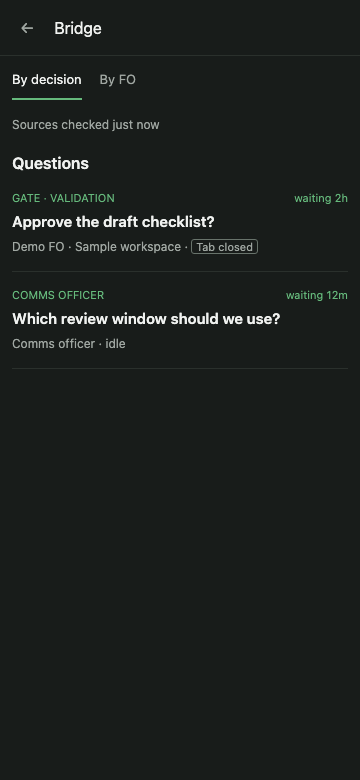
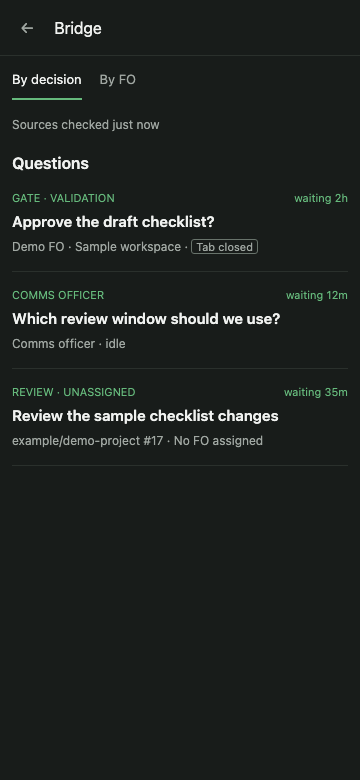
state: update r8-mockups-one-item-whole-area

Changed region(s): [[0.0306, 0.4923, 0.7639, 0.5846], [0.7944, 0.4923, 0.9472, 0.5231]]

diff --git a/r8-mockups-one-item-whole-area/mockups/index.html b/r8-mockups-one-item-whole-area/mockups/index.html
@@ -6,32 +6,33 @@
 <title>Bridge · One item uses the whole area</title>
 <style>
 :root{color-scheme:dark;--bg:#181c1a;--side:#131715;--box:#1e2320;--border:#2a302c;--text:#f0f2f0;--muted:#a0a7a2;--green:#66b97c;--amber:#d1a454}
-*{box-sizing:border-box}body{margin:0;background:var(--bg);color:var(--text);font:14px/1.5 -apple-system,BlinkMacSystemFont,"Segoe UI",sans-serif}button,a,textarea{font:inherit}button,a{touch-action:manipulation}a{color:var(--green);text-decoration:none}button{color:inherit;cursor:pointer;background:none;border:0}button:disabled{cursor:default;opacity:.4}a:focus-visible,button:focus-visible{outline:2px solid var(--green);outline-offset:3px}textarea:focus{outline:2px solid var(--green);outline-offset:1px}textarea{resize:none;color:var(--text);background:none;border:0;width:100%;line-height:1.4}textarea::placeholder{color:var(--muted);opacity:1}h1,h2,p{margin:0}h1{font-size:16px;font-weight:600;line-height:1.45}h2{font-size:14px;font-weight:600}.muted,.small{color:var(--muted);font-size:12px}.eyebrow{color:var(--green);font-size:11px;font-weight:600;letter-spacing:1px}.host{position:fixed;inset:0 auto 0 0;width:320px;background:var(--side);border-right:1px solid var(--border);padding:10px 8px;color:var(--muted)}.navrow{padding:6px 10px}.navrow.active{background:var(--box);border-radius:9px;color:var(--text)}.workspaces{border-top:1px solid var(--border);margin-top:8px;padding:12px 8px}.workspace{margin-top:20px}.hostfoot{position:absolute;bottom:12px;left:16px;right:16px;font-size:12px}.shell{margin-left:320px;height:100dvh;display:flex;flex-direction:column}.hostbar{height:36px;min-height:36px;border-bottom:1px solid var(--border);padding:6px 12px;display:flex;align-items:center;justify-content:space-between}.phone-back{display:none}.bridge{flex:1;min-height:0;display:flex;flex-direction:column}.toolbar{display:flex;align-items:center;justify-content:space-between;min-height:44px;padding:0 20px;border-bottom:1px solid var(--border)}.back{display:flex;align-items:center;min-height:44px;color:var(--muted);font-size:12px;min-width:70px}.briefing{padding:16px 20px 14px;border-bottom:1px solid var(--border)}.briefing h1{margin:5px 0}.meta{color:var(--muted);font-size:12px;margin-bottom:8px}.tag{border:1px solid #68736b;padding:0 4px;border-radius:3px;font-size:11px}.summary{max-width:900px}.briefing details{margin-top:8px;font-size:12px}.briefing summary{cursor:pointer;color:var(--green);list-style:none;min-height:24px}.full{padding-top:10px;color:var(--text);font-size:14px}.full p+p{margin-top:8px}.conversation{flex:1;min-height:100px;overflow:auto;display:flex;flex-direction:column}.scope{padding:13px 20px;display:flex;gap:16px;justify-content:space-between;color:var(--muted);font-size:12px}.scope span{flex:1}.transcript{padding:14px 20px;max-width:950px}.transcript p+p{margin-top:12px}.bubble{margin:12px 0 0 auto;padding:8px 12px;background:var(--box);border-radius:12px;max-width:80%;white-space:pre-wrap}.composer{padding:8px 20px 20px}.messagebox{border:1px solid var(--border);background:var(--box);border-radius:14px;overflow:hidden}.hint{padding:7px 14px 0;color:var(--muted);font-size:12px}.messagebox textarea{display:block;padding:10px 14px 4px;min-height:52px;height:52px}.actions{display:flex;align-items:flex-end;gap:10px;padding:0 8px 8px 12px}.decision-group{display:flex;align-items:center;flex-wrap:wrap;gap:8px;flex:1}.decision-label{font-size:12px;color:var(--muted)}.choices{display:flex;gap:8px}.control{min-height:32px;min-width:32px;border:1px solid var(--border);border-radius:11px;padding:4px 12px;font-size:13px;display:inline-flex;align-items:center;justify-content:center}.control.success{color:var(--green);border-color:var(--green)}.control.warning{color:var(--amber);border-color:var(--amber)}.control.hold{color:var(--muted);border-color:#829086}.control[aria-pressed=true]{background:#363a2e;box-shadow:inset 0 0 0 1px currentColor}.send{width:32px;height:32px;min-width:32px;padding:0;border-radius:50%;border:0;background:#2a312c;font-size:21px;color:var(--muted)}.send.ready{background:var(--green);color:#102417}.divider{height:18px;width:1px;background:var(--border);margin-bottom:7px}.reasonbox{padding:12px;margin-top:8px;border:1px solid var(--border);border-radius:14px}.reasonbox label{font-size:12px;color:var(--muted);display:block;margin-bottom:6px}.reasonbox textarea{background:var(--box);border:1px solid var(--border);border-radius:8px;padding:10px;height:58px;display:block;margin-bottom:8px}.reason-actions{display:flex;gap:8px}.reason-actions .confirm:not(:disabled){border-color:var(--green)}.result{padding:16px 20px;border-bottom:1px solid var(--border)}.result h1{margin:4px 0 6px}.result p{margin-top:8px}.result-status{font-weight:600;color:var(--green)}.queue{padding:18px 20px;overflow:auto;flex:1}.queue-tabs{display:flex;gap:18px;margin:0 0 20px;color:var(--muted);font-size:13px}.queue-tabs span:first-child{color:var(--text);border-bottom:2px solid var(--green);padding-bottom:8px}.sectionlabel{color:var(--muted);font-size:12px;margin:18px 0 6px}.queue-row{display:block;color:var(--text);padding:16px 0;border-bottom:1px solid var(--border)}.queue-row h2{font-size:15px}.rowdetail{margin-top:5px;color:var(--muted);font-size:12px}.rowtop{display:flex;justify-content:space-between;gap:8px;font-size:11px;color:var(--green);margin-bottom:4px}.queue-note{margin-bottom:18px}.landing{max-width:1000px;margin:0 auto;padding:40px 24px}.landing h1{font-size:24px;margin-bottom:8px}.landing p{color:var(--muted);margin-bottom:24px}.cards{display:grid;grid-template-columns:repeat(2,minmax(0,1fr));gap:12px}.card{border:1px solid var(--border);border-radius:12px;padding:18px;color:var(--text);background:var(--box)}.card small{display:block;color:var(--muted);margin-top:6px}.reviewnote{font-size:12px;margin-top:24px;color:var(--muted)}
-@media(max-width:700px){body{font-size:14px}.host{display:none}.shell{margin-left:0}.hostbar{height:56px;min-height:56px;padding:0 20px;font-size:16px;justify-content:flex-start;gap:20px}.hostbar .close{display:none}.phone-back{display:inline;color:var(--muted)}.toolbar{padding:0 12px}.briefing{padding:10px 12px 12px}.briefing h1{font-size:15px;margin:5px 0}.briefing .meta{margin-bottom:6px}.briefing summary{min-height:28px;padding-top:5px}.scope{padding:12px;font-size:11px;gap:8px}.transcript{padding:8px 12px}.conversation{min-height:90px}.composer{padding:8px 12px 12px}.messagebox textarea{height:52px;min-height:52px}.actions{gap:8px;padding:0 8px 8px 12px}.decision-group{display:block}.decision-label{display:block;font-size:12px;margin-bottom:4px}.choices{gap:8px}.control{min-height:44px;min-width:44px;padding:6px 12px;border-radius:14px}.send{width:44px;height:44px;min-width:44px;border-radius:50%}.divider{margin-bottom:13px}.reasonbox{padding:10px 12px}.reasonbox textarea{height:60px;padding:9px}.reasonbox label{font-size:11px}.reason-actions{gap:8px}.result{padding:12px}.queue{padding:14px 12px}.queue-row{padding:15px 0}.queue-tabs{margin-bottom:16px}.landing{padding:24px 16px}.landing h1{font-size:21px}.cards{grid-template-columns:1fr}.scope .full-view{display:none}}
+*{box-sizing:border-box}body{margin:0;background:var(--bg);color:var(--text);font:14px/1.5 -apple-system,BlinkMacSystemFont,"Segoe UI",sans-serif}button,a,textarea{font:inherit}button,a{touch-action:manipulation}a{color:var(--green);text-decoration:none}button{color:inherit;cursor:pointer;background:none;border:0}button:disabled{cursor:default;opacity:.4}a:focus-visible,button:focus-visible{outline:2px solid var(--green);outline-offset:3px}textarea:focus{outline:2px solid var(--green);outline-offset:1px}textarea{resize:none;color:var(--text);background:none;border:0;width:100%;line-height:1.4}textarea::placeholder{color:var(--muted);opacity:1}h1,h2,p{margin:0}h1{font-size:16px;font-weight:600;line-height:1.45}h2{font-size:14px;font-weight:600}.muted,.small{color:var(--muted);font-size:12px}.eyebrow{color:var(--green);font-size:11px;font-weight:600;letter-spacing:1px}.host{position:fixed;inset:0 auto 0 0;width:320px;background:var(--side);border-right:1px solid var(--border);padding:10px 8px;color:var(--muted)}.navrow{padding:6px 10px}.navrow.active{background:var(--box);border-radius:9px;color:var(--text)}.workspaces{border-top:1px solid var(--border);margin-top:8px;padding:12px 8px}.workspace{margin-top:20px}.hostfoot{position:absolute;bottom:12px;left:16px;right:16px;font-size:12px}.shell{margin-left:320px;height:100dvh;display:flex;flex-direction:column}.hostbar{height:36px;min-height:36px;border-bottom:1px solid var(--border);padding:6px 12px;display:flex;align-items:center;justify-content:space-between}.phone-back{display:none}.bridge{flex:1;min-height:0;display:flex;flex-direction:column}.toolbar{display:flex;align-items:center;justify-content:space-between;min-height:44px;padding:0 20px;border-bottom:1px solid var(--border)}.back{display:flex;align-items:center;min-height:44px;color:var(--muted);font-size:12px;min-width:70px}.briefing{padding:16px 20px 14px;border-bottom:1px solid var(--border)}.briefing h1{margin:5px 0}.meta{color:var(--muted);font-size:12px;margin-bottom:8px}.tag{border:1px solid #68736b;padding:0 4px;border-radius:3px;font-size:11px}.summary{max-width:900px}.briefing details{margin-top:8px;font-size:12px}.briefing summary{cursor:pointer;color:var(--green);list-style:none;min-height:24px}.full{padding-top:10px;color:var(--text);font-size:14px}.full p+p{margin-top:8px}.conversation{flex:1;min-height:100px;overflow:auto;display:flex;flex-direction:column}.scope{padding:13px 20px;display:flex;gap:16px;justify-content:space-between;color:var(--muted);font-size:12px}.scope span{flex:1}.transcript{padding:14px 20px;max-width:950px}.transcript p+p{margin-top:12px}.bubble{margin:12px 0 0 auto;padding:8px 12px;background:var(--box);border-radius:12px;max-width:80%;white-space:pre-wrap;overflow-wrap:anywhere}.composer{padding:8px 20px 20px}.messagebox{border:1px solid var(--border);background:var(--box);border-radius:14px;overflow:hidden}.hint{padding:7px 14px 0;color:var(--muted);font-size:12px}.messagebox textarea{display:block;padding:10px 14px 4px;min-height:52px;height:52px}.actions{display:flex;align-items:flex-end;gap:10px;padding:0 8px 8px 12px}.decision-group{display:flex;align-items:center;flex-wrap:wrap;gap:8px;flex:1}.decision-label{font-size:12px;color:var(--muted)}.choices{display:flex;gap:8px}.control{min-height:32px;min-width:32px;border:1px solid var(--border);border-radius:11px;padding:4px 12px;font-size:13px;display:inline-flex;align-items:center;justify-content:center}.control.success{color:var(--green);border-color:var(--green)}.control.warning{color:var(--amber);border-color:var(--amber)}.control.hold{color:var(--muted);border-color:#829086}.control[aria-pressed=true]{background:#363a2e;box-shadow:inset 0 0 0 1px currentColor}.send{width:32px;height:32px;min-width:32px;padding:0;border-radius:50%;border:0;background:#2a312c;font-size:21px;color:var(--muted)}.send.ready{background:var(--green);color:#102417}.divider{height:18px;width:1px;background:var(--border);margin-bottom:7px}.reasonbox{padding:12px;margin-top:8px;border:1px solid var(--border);border-radius:14px}.reasonbox label{font-size:12px;color:var(--muted);display:block;margin-bottom:6px}.reasonbox textarea{background:var(--box);border:1px solid var(--border);border-radius:8px;padding:10px;height:58px;display:block;margin-bottom:8px}.reason-actions{display:flex;gap:8px}.reason-actions .confirm:not(:disabled){border-color:var(--green)}.result{padding:16px 20px;border-bottom:1px solid var(--border)}.result h1{margin:4px 0 6px}.result p{margin-top:8px}.result-status{font-weight:600;color:var(--green)}.queue{padding:18px 20px;overflow:auto;flex:1}.queue-tabs{display:flex;gap:18px;margin:0 0 20px;color:var(--muted);font-size:13px}.queue-tabs span:first-child{color:var(--text);border-bottom:2px solid var(--green);padding-bottom:8px}.sectionlabel{color:var(--muted);font-size:12px;margin:18px 0 6px}.queue-row{display:block;color:var(--text);padding:16px 0;border-bottom:1px solid var(--border)}.queue-row h2{font-size:15px}.rowdetail{margin-top:5px;color:var(--muted);font-size:12px}.rowtop{display:flex;justify-content:space-between;gap:8px;font-size:11px;color:var(--green);margin-bottom:4px}.queue-note{margin-bottom:18px}.landing{max-width:1000px;margin:0 auto;padding:40px 24px}.landing h1{font-size:24px;margin-bottom:8px}.landing p{color:var(--muted);margin-bottom:24px}.cards{display:grid;grid-template-columns:repeat(2,minmax(0,1fr));gap:12px}.card{border:1px solid var(--border);border-radius:12px;padding:18px;color:var(--text);background:var(--box)}.card small{display:block;color:var(--muted);margin-top:6px}.reviewnote{font-size:12px;margin-top:24px;color:var(--muted)}
+@media(max-width:700px){body{font-size:14px}.host{display:none}.shell{margin-left:0}.hostbar{height:56px;min-height:56px;padding:0 20px;font-size:16px;justify-content:flex-start;gap:20px}.hostbar .close{display:none}.phone-back{display:inline;color:var(--muted)}.toolbar{padding:0 12px}.briefing{padding:10px 12px 12px}.briefing h1{font-size:15px;margin:5px 0}.briefing .meta{margin-bottom:6px}.briefing summary{min-height:28px;padding-top:5px}.scope{padding:12px;font-size:11px;gap:8px}.transcript{padding:8px 12px}.conversation{min-height:90px}.composer{padding:8px 12px 12px}.messagebox textarea{height:52px;min-height:52px}.actions{gap:8px;padding:0 8px 8px 12px}.decision-group{display:block}.decision-label{display:block;font-size:12px;margin-bottom:4px}.choices{gap:8px}.control{min-height:44px;min-width:44px;padding:6px 12px;border-radius:14px}.send{width:44px;height:44px;min-width:44px;border-radius:50%}.divider{margin-bottom:13px}.reasonbox{padding:10px 12px}.reasonbox textarea{height:60px;padding:9px}.reasonbox label{font-size:11px}.reason-actions{gap:8px}.result{padding:12px}.queue{padding:14px 12px}.queue-row{padding:15px 0}.queue-tabs{margin-bottom:16px}.landing{padding:24px 16px}.landing h1{font-size:21px}.cards{grid-template-columns:1fr}.scope .full-view{display:none}.review-prefill #message{height:110px}}
 </style>
 <div id="app"></div>
 <script>
-const states=[['list','清單'],['open','單件全區'],['reason-empty','已選要求修改・理由空白'],['reason-typed','已填理由'],['sent','已送出'],['relayed','已轉送'],['recorded','已記錄'],['back-list','回到清單'],['comms','通訊官問題']];
+const states=[['list','清單'],['open','單件全區'],['reason-empty','已選要求修改・理由空白'],['reason-typed','已填理由'],['sent','已送出'],['relayed','已轉送'],['recorded','已記錄'],['list-sent','送出後回清單'],['list-relayed','轉送後回清單'],['back-list','已記錄後回清單'],['comms','通訊官問題'],['review-ask','未分派審查・預填詢問'],['review-sent','審查詢問已送出']];
 const allowed=new Set(states.map(s=>s[0]));
 let state=new URLSearchParams(location.search).get('state')||'review';
 if(!allowed.has(state))state='review';
 let chosen=state.startsWith('reason-')?'要求修改':null;
-let messageDraft='';
+const reviewAsk='Who should review example/demo-project#17 (https://example.invalid/example/demo-project/pull/17)?';
+let messageDraft=state==='review-ask'?reviewAsk:'';
 let reasonDraft=state==='reason-typed'?'Please add the missing rollback check.':'';
 const app=document.getElementById('app');
 const esc=s=>s.replaceAll('&','&amp;').replaceAll('<','&lt;').replaceAll('>','&gt;').replaceAll('"','&quot;');
 const url=s=>'?state='+s;
 function host(content){return `<aside class="host" aria-label="Paseo navigation"><div class="navrow">＋ New workspace</div><div class="navrow">◷ History</div><div class="navrow">⌕ Search</div><div class="navrow">◷ Schedules</div><div class="navrow active">♧ Bridge</div><div class="workspaces small">Workspaces<div class="workspace">▣ &nbsp; Sample workspace</div></div><div class="hostfoot">⊞ &nbsp; ◉ &nbsp; ▤</div></aside><main class="shell"><header class="hostbar"><span class="phone-back">←</span><span>Bridge</span><span class="muted close">×</span></header><div class="bridge">${content}</div></main>`}
-function toolbar(){return `<nav class="toolbar" aria-label="Item navigation"><a class="back" href="${url(['sent','relayed','recorded'].includes(state)?'back-list':'list')}">← Queue</a></nav>`}
-function queue(){const done=state==='back-list';return `<div class="queue"><div class="queue-tabs"><span>By decision</span><span>By FO</span></div><p class="small queue-note">Sources checked just now</p><h1>Questions</h1>${done?'':`<a class="queue-row" href="${url('open')}"><div class="rowtop"><span>GATE · VALIDATION</span><span>waiting 2h</span></div><h2>Approve the draft checklist?</h2><div class="rowdetail">Demo FO · Sample workspace · <span class="tag">Tab closed</span></div></a>`}<a class="queue-row" href="${url('comms')}"><div class="rowtop"><span>COMMS OFFICER</span><span>waiting 12m</span></div><h2>Which review window should we use?</h2><div class="rowdetail">Comms officer · idle</div></a></div>`}
+function toolbar(){return `<nav class="toolbar" aria-label="Item navigation"><a class="back" href="${url(({sent:'list-sent',relayed:'list-relayed',recorded:'back-list'})[state]||'list')}">← Queue</a></nav>`}
+function queue(){const done=state==='back-list';const progress=({'list-sent':'sent','list-relayed':'relayed'})[state];return `<div class="queue"><div class="queue-tabs"><span>By decision</span><span>By FO</span></div><p class="small queue-note">Sources checked just now</p><h1>Questions</h1>${done?'':`<a class="queue-row" data-gate-row href="${url(progress||'open')}"><div class="rowtop"><span>GATE · VALIDATION</span><span>waiting 2h</span></div><h2>Approve the draft checklist?</h2><div class="rowdetail">Demo FO · Sample workspace · <span class="tag">Tab closed</span>${progress?' · '+(progress==='sent'?'Sent to comms officer':'Relayed to Demo FO'):''}</div></a>`}<a class="queue-row" href="${url('comms')}"><div class="rowtop"><span>COMMS OFFICER</span><span>waiting 12m</span></div><h2>Which review window should we use?</h2><div class="rowdetail">Comms officer · idle</div></a><a class="queue-row" href="${url('review-ask')}"><div class="rowtop"><span>REVIEW · UNASSIGNED</span><span>waiting 35m</span></div><h2>Review the sample checklist changes</h2><div class="rowdetail">example/demo-project #17 · No FO assigned</div></a></div>`}
 function briefing(){return `<section class="briefing" aria-label="Gate briefing"><div class="eyebrow">GATE · VALIDATION · SAMPLE WORKSPACE</div><h1>Approve the draft checklist?</h1><div class="meta">Demo FO · <span class="tag">Tab closed</span> &nbsp; waiting 2h</div><p class="summary">The draft checklist is ready for review. Confirm the remaining checks before proceeding.</p><details><summary>Read full briefing ›</summary><div class="full"><p>Draft checklist: verify the preview, check the sample export, and agree on the review window.</p><p>The rollback check is still missing. This gate asks whether to accept the draft or request a revision before the review.</p></div></details></section>`}
 function conversation(comms=false){return `<section class="conversation" aria-label="Conversation"><div class="scope"><span>Conversation with ${comms?'Comms officer':'Demo FO'} · includes other tasks</span><span class="full-view">Open full view</span></div><div class="transcript"><p>${comms?'Which review window should we use? (you)':'The draft is ready. Please confirm the remaining checks before the review. (you)'}</p><div id="sent-messages"></div></div></section>`}
-function composer(comms=false,terminal=false){const who=comms?'Comms officer':'Demo FO';return `<section class="composer" aria-label="Message and decision"><div class="messagebox"><div class="hint">↑ sends to ${who}</div><textarea id="message" aria-label="Message ${who}" placeholder="Message ${who}${comms?'':' directly'}">${esc(messageDraft)}</textarea><div class="actions">${comms||terminal?'<div style="flex:1"></div>':`<div class="decision-group"><span class="decision-label">Decide via comms officer</span><div class="choices">${['准','要求修改','暫緩'].map((word,i)=>`<button class="control choice ${['success','warning','hold'][i]}" data-choice="${word}" aria-pressed="${chosen===word}">${word}</button>`).join('')}</div></div><span class="divider"></span>`}<button id="send" class="control send" aria-label="Send message to ${who}" disabled>↑</button></div></div>${chosen?reasonbox():''}</section>`}
+function composer(comms=false,terminal=false){const who=comms?'Comms officer':'Demo FO';return `<section class="composer" aria-label="Message and decision"><div class="messagebox${state==='review-ask'?' review-prefill':''}"><div class="hint">↑ sends to ${who}</div><textarea id="message" aria-label="Message ${who}" placeholder="Message ${who}${comms?'':' directly'}">${esc(messageDraft)}</textarea><div class="actions">${comms||terminal?'<div style="flex:1"></div>':`<div class="decision-group"><span class="decision-label">Decide via comms officer</span><div class="choices">${['准','要求修改','暫緩'].map((word,i)=>`<button class="control choice ${['success','warning','hold'][i]}" data-choice="${word}" aria-pressed="${chosen===word}">${word}</button>`).join('')}</div></div><span class="divider"></span>`}<button id="send" class="control send" aria-label="Send message to ${who}" disabled>↑</button></div></div>${chosen?reasonbox():''}</section>`}
 function reasonbox(){const required=chosen!=='准';return `<div class="reasonbox"><label for="reason">Reason for ${chosen} (${required?'required':'optional'}) · via comms officer</label><textarea id="reason" placeholder="${required?'Add a reason for this decision':'Optional reason'}" ${required?'required':''}>${esc(reasonDraft)}</textarea><div class="reason-actions"><button id="confirm" class="control confirm" ${required&&!reasonDraft.trim()?'disabled':''}>Confirm ${chosen}</button><button id="cancel" class="control">Cancel</button></div></div>`}
-function result(){const copy={sent:['Sent to comms officer','Waiting for the comms officer to relay your decision.'],relayed:['Relayed to Demo FO','Waiting for Demo FO to check your words and the briefing, then record the decision.'],recorded:['Recorded by Demo FO','Your decision has been recorded.']}[state];return `<section class="result" aria-label="Decision result"><div class="eyebrow">GATE · VALIDATION · SAMPLE WORKSPACE</div><h1>Approve the draft checklist?</h1><div class="meta">Demo FO · <span class="tag">Tab closed</span></div><p class="result-status">${copy[0]}</p><p>要求修改 — ${esc(reasonDraft||'Please add the missing rollback check.')}</p><p class="muted">${copy[1]}</p></section>`}
-function render(){if(state==='review'){app.innerHTML=`<main class="landing"><div class="eyebrow">第 8 輪 · 靜態設計稿</div><h1>單件使用整個 Bridge 區域</h1><p>先從清單開一件；確認後留在原件看結果，再回清單。以下全部使用虛構資料。</p><div class="cards">${states.map(([s,title])=>`<a class="card" href="${url(s)}">${title}<small>開啟畫面 →</small></a>`).join('')}</div><div class="reviewnote">同一方向，桌面與手機共用版面規則。<br>這是離線示意；送出和確認只改變畫面，不會傳訊或記錄決定。<br>已送出、已轉送、已記錄是分開的固定示意頁，不會自動進度。<br><a href="REVIEW.md">逐頁審閱問題與 PNG</a> · <a href="ASSUMPTIONS.md">設計假設</a></div></main>`;return}
-let content;if(['list','back-list'].includes(state))content=queue();else if(state==='comms')content=toolbar()+`<section class="briefing"><div class="eyebrow">COMMS OFFICER · WAITING 12M</div><h1>Which review window should we use?</h1></section>`+conversation(true)+composer(true);else if(['sent','relayed','recorded'].includes(state)){chosen=null;content=toolbar()+result()+conversation()+composer(false,true)}else content=toolbar()+briefing()+conversation()+composer();app.innerHTML=host(content);bind();}
-function bind(){const message=document.getElementById('message');const send=document.getElementById('send');if(message&&send){send.disabled=!message.value.trim();send.classList.toggle('ready',!!message.value.trim())}message?.addEventListener('input',()=>{messageDraft=message.value;send.disabled=!messageDraft.trim();send.classList.toggle('ready',!!messageDraft.trim())});send?.addEventListener('click',()=>{if(!messageDraft.trim())return;const p=document.createElement('p');p.className='bubble';p.textContent=messageDraft;document.getElementById('sent-messages').append(p);message.value='';messageDraft='';send.disabled=true;send.classList.remove('ready')});document.querySelectorAll('[data-choice]').forEach(b=>b.addEventListener('click',()=>{chosen=b.dataset.choice;render()}));document.getElementById('reason')?.addEventListener('input',e=>{reasonDraft=e.target.value;document.getElementById('confirm').disabled=chosen!=='准'&&!reasonDraft.trim()});document.getElementById('cancel')?.addEventListener('click',()=>{chosen=null;render()});document.getElementById('confirm')?.addEventListener('click',()=>{if(chosen!=='准'&&!reasonDraft.trim())return;const decision=chosen;state='sent';history.replaceState(null,'',url(state));render();document.querySelector('.result p:nth-of-type(2)').textContent=decision+(reasonDraft.trim()?' — '+reasonDraft:'');});}
+function result(){const copy={sent:['Sent to comms officer','Waiting for the comms officer to relay your decision.'],relayed:['Relayed to Demo FO','Waiting for Demo FO to check your words and the briefing, then record the decision.'],recorded:['Recorded by Demo FO','']}[state];return `<section class="result" aria-label="Decision result"><div class="eyebrow">GATE · VALIDATION · SAMPLE WORKSPACE</div><h1>Approve the draft checklist?</h1><div class="meta">Demo FO · <span class="tag">Tab closed</span></div><p class="result-status">${copy[0]}</p><p>要求修改 — ${esc(reasonDraft||'Please add the missing rollback check.')}</p>${copy[1]?`<p class="muted">${copy[1]}</p>`:""}</section>`}
+function render(){if(state==='review'){app.innerHTML=`<main class="landing"><div class="eyebrow">第 8 輪 · 靜態設計稿</div><h1>單件使用整個 Bridge 區域</h1><h2 style="margin:12px 0 20px">要照這個方向往下做，還是有哪裡要改？</h2><p>先從清單開一件；確認後留在原件看結果，再回清單。以下全部使用虛構資料。</p><div class="cards">${states.map(([s,title])=>`<a class="card" href="${url(s)}">${title}<small>開啟畫面 →</small></a>`).join('')}</div><div class="reviewnote">同一方向，桌面與手機共用版面規則。<br>這是離線示意；送出和確認只改變畫面，不會傳訊或記錄決定。<br>已送出、已轉送、已記錄是分開的固定示意頁，不會自動進度。<br><a href="REVIEW.md">逐頁審閱問題與 PNG</a> · <a href="ASSUMPTIONS.md">設計假設</a></div></main>`;return}
+let content;if(['list','list-sent','list-relayed','back-list'].includes(state))content=queue();else if(['review-ask','review-sent'].includes(state))content=toolbar()+`<section class="briefing"><div class="eyebrow">REVIEW · UNASSIGNED · WAITING 35M</div><h1>Review the sample checklist changes</h1><div class="meta">example/demo-project #17 · No FO assigned</div></section>`+conversation(true)+composer(true);else if(state==='comms')content=toolbar()+`<section class="briefing"><div class="eyebrow">COMMS OFFICER · WAITING 12M</div><h1>Which review window should we use?</h1></section>`+conversation(true)+composer(true);else if(['sent','relayed','recorded'].includes(state)){chosen=null;content=toolbar()+result()+conversation()+composer(false,true)}else content=toolbar()+briefing()+conversation()+composer();app.innerHTML=host(content);bind();if(state==='review-sent'){const p=document.createElement('p');p.className='bubble';p.textContent=reviewAsk;document.getElementById('sent-messages').append(p);}}
+function bind(){const message=document.getElementById('message');const send=document.getElementById('send');if(message&&send){send.disabled=!message.value.trim();send.classList.toggle('ready',!!message.value.trim())}message?.addEventListener('input',()=>{messageDraft=message.value;send.disabled=!messageDraft.trim();send.classList.toggle('ready',!!messageDraft.trim())});send?.addEventListener('click',()=>{if(!messageDraft.trim())return;const p=document.createElement('p');p.className='bubble';p.textContent=messageDraft;document.getElementById('sent-messages').append(p);message.value='';messageDraft='';send.disabled=true;send.classList.remove('ready');if(state==='review-ask'){document.querySelector('.messagebox').classList.remove('review-prefill');state='review-sent';history.replaceState(null,'',url(state))}});document.querySelectorAll('[data-choice]').forEach(b=>b.addEventListener('click',()=>{chosen=b.dataset.choice;render()}));document.getElementById('reason')?.addEventListener('input',e=>{reasonDraft=e.target.value;document.getElementById('confirm').disabled=chosen!=='准'&&!reasonDraft.trim()});document.getElementById('cancel')?.addEventListener('click',()=>{chosen=null;render()});document.getElementById('confirm')?.addEventListener('click',()=>{if(chosen!=='准'&&!reasonDraft.trim())return;const decision=chosen;state='sent';history.replaceState(null,'',url(state));render();document.querySelector('.result p:nth-of-type(2)').textContent=decision+(reasonDraft.trim()?' — '+reasonDraft:'');});}
 render();
 </script>
 </html>

diff --git a/r8-mockups-one-item-whole-area/mockups/EVIDENCE.md b/r8-mockups-one-item-whole-area/mockups/EVIDENCE.md
@@ -8,18 +8,23 @@
 - 第 7 輪產品唯讀來源：`/Users/kent/Project/kc-paseo-plugins/.worktrees/flywheel-live/spacedock-bridge`，HEAD `316c9eff7bd6ce2f5e15db7382dea1aba1197a26`；讀取 Bridge、CoChat 與決定控制的實作，並開圖檢視原桌面與手機畫面。前後均乾淨，沒有啟動或操作 Paseo daemon。
[1 lines of base64/hex data omitted]
 - [已選模型](../../r8-simplest-way-to-decide/design/INTERACTION-MODELS.md)、[模型查核](../../r8-simplest-way-to-decide/design/EVIDENCE.md)、[rounds.md 第 7／8 輪](../../_l3-dogfood/rounds.md) 已讀；任務開始沒有本階段既有報告，相關前一任務已由 Captain 選定模型。
-- 實際檢視原圖：`1440-gate-open-expanded.png`、`360-gate-decision-reason-typed.png`；本次視覺核對已開桌面清單／開件／已填理由，以及全部手機狀態。
+- 實際檢視原圖：`1440-gate-open-expanded.png`、`360-gate-decision-reason-typed.png`；第一輪視覺核對已開桌面清單／開件／已填理由，以及全部手機狀態；第二輪另開桌面送出後清單／預填審查，以及手機轉送後清單／預填審查／詢問送出／已記錄。
+
+## 第二輪修訂
+
+依任務檔的設計總監第一次審閱（NOT SATISFIED）及 FO follow-up，修正未記錄閘門返回清單的語意並補齊既有未分派審查路徑。REVIEW.md 和 index.html 首頁只提出一個方向問題，各狀態的細問留作參考；擷取說明移到本檔，已記錄頁移除重複句，草稿限制明確標為原型限制。
 
 ## 離線行為與尺寸
 
-`node /Users/kent/Project/kc-paseo-plugins/docs/dev2-poc/.spacedock-state/r8-mockups-one-item-whole-area/mockups/capture.mjs` 成功退出 0：18 張 PNG、兩次離線操作路徑。逐狀態量測及 HTML 雜湊在 [capture-evidence.json](capture-evidence.json)。
+`node /Users/kent/Project/kc-paseo-plugins/docs/dev2-poc/.spacedock-state/r8-mockups-one-item-whole-area/mockups/capture.mjs` 成功退出 0：26 張 PNG、兩次離線操作路徑。逐狀態量測及 HTML 雜湊在 [capture-evidence.json](capture-evidence.json)。
 
 | 已實際跑過的主張 | 會使檢查失敗的變動 |
 | --- | --- |
 | 1440×1000 的 Bridge 全區寬 1120px（扣除 320px 宿主側欄）；360×780 全寬 360px；沒有文件溢出或掉出螢幕的控制 | 恢復 380px 決定側欄，或使理由控制超出視窗 |
 | 桌面全部決定／確認按鈕及 Send 同高 32px；手機各按鈕至少 44×44px | 把 44px 手機決定按鈕原樣套到桌面；或縮小手機目標 |
 | 要求修改空白理由不能確認、輸入後能確認；暫緩同樣必填，准可省略理由 | 讓空白必填理由可送出，或把批准理由改成必填 |
-| 清單開件 → 選結果 → 輸入理由 → 取消／重選仍有獨立草稿 → 確認顯示已送出 → 回清單 → 開通訊官問題 → 發普通訊息 | 共用訊息／理由草稿、確認直接顯示已記錄，或把普通訊息當決定 |
+| 清單開件 → 選結果 → 輸入理由 → 取消／重選仍有獨立草稿 → 確認顯示已送出 → 回清單重開進度；已轉送亦同，僅已記錄移出 → 開通訊官問題 → 發普通訊息 | 共用訊息／理由草稿、確認直接顯示已記錄、過早移出待決清單，或把普通訊息當決定 |
+| 未分派審查從清單開啟就預填既有格式的詢問，按 Send 送普通訊息；兩次點擊，手機預填全文可讀 | 增加第三個必要操作、漏掉預填、錯誤收件人或將詢問記為閘門決定 |
 | Read full briefing 可展開同件的虛構原文；單件只有一個對話區及明示範圍 | 隱藏原文、保留另一個通訊官對話分佔單件，或遺失對話目標 |
 
 瀏覽器只開本目錄 file URL，以控制 pipe 操作，不載入任何 localhost 服務。一般 sandbox 下 Chrome 未回應控制要求；允許啟動本機 headless Chrome 後成功，最後重跑亦通過。每個尺寸的新臨時 profile 都已關閉及移除。圖片沒有系統鍵盤，不證明真機輸入時的版面。
@@ -35,3 +40,13 @@
 `python3 /Users/kent/.claude/plugins/cache/kc-claude-plugins/kc-dev-flow-2/0.32.0/scripts/doc_impact.py b5381b18834ead9047778e96b27199ae0b3bd8e8 b5381b18834ead9047778e96b27199ae0b3bd8e8`：退出 0，0 document(s)；產品版本相同，沒有受影響產品文件。這次新增的設計文件彼此連結在 REVIEW.md。
 
 RoboRev（本機程式碼審查工具）：SKIPPED，沒有產品程式變更，且派工已指出套件缺口 5。沒有新 ADR；設計假設留在本任務。獨立設計總監審閱與 Captain 的 go 由 FO 接續，未自行記錄接受或改動階段。
+
+## 重製圖片
+
+需求：Node.js 22 或更新版本，以及可執行 headless 的 Google Chrome。無 npm 套件、無網路、無本機伺服器，也不需要 Paseo。macOS 預設 Chrome 路徑是 `/Applications/Google Chrome.app/Contents/MacOS/Google Chrome`；其他安裝位置作為第一個參數傳入。
+
+```sh
+node /absolute/path/to/mockups/capture.mjs /absolute/path/to/chrome
+```
+
+程式只開本目錄的 `index.html`，使用 Chrome DevTools Protocol（瀏覽器控制介面）的 pipe。每個尺寸使用新臨時 profile，完成後關閉瀏覽器並移除；逐張輸出 PNG 與 [capture-evidence.json](capture-evidence.json)。它會走兩個尺寸的離線操作，量測全區寬度、按鈕尺寸、畫面溢出及 Confirm 停用／啟用。保留 capture.mjs 供設計總監重製；這份靜態設計稿被正式實作取代時，一起退役。

diff --git a/r8-mockups-one-item-whole-area/mockups/REVIEW.md b/r8-mockups-one-item-whole-area/mockups/REVIEW.md
@@ -1,6 +1,10 @@
 # 單件全區：逐頁審閱
 
+**要照這個方向往下做，還是有哪裡要改？**
+
 [從 index.html 開始](index.html)。一個方向，兩個尺寸；以下連結都是離線靜態設計稿，使用同一組虛構資料。手機圖不含系統鍵盤；這些圖不證明真實傳送、轉送或記錄。
+
+以下每個狀態的問題僅供逐頁查核參考，不需逐題回答。
 
 ## 清單
 
@@ -44,11 +48,23 @@
 
 問題：這個結果與理由足以讓你確定眼前這次決定已完成嗎？
 
-## 回到清單
+## 已送出後回清單
+
+[HTML](index.html?state=list-sent) · [桌面](1440-list-sent.png) · [手機](360-list-sent.png)
+
+問題：尚未記錄的閘門仍在原清單，點開能回到送出進度，清楚嗎？
+
+## 已轉送後回清單
+
+[HTML](index.html?state=list-relayed) · [桌面](1440-list-relayed.png) · [手機](360-list-relayed.png)
+
+問題：點開仍在清單中的閘門時，能看出它已轉送但尚未記錄嗎？
+
+## 已記錄後回清單
 
 [HTML](index.html?state=back-list) · [桌面](1440-back-list.png) · [手機](360-back-list.png)
 
-問題：用原位置的「← Queue」返回後，你能繼續從清單選事嗎？
+問題：只有已記錄的閘門離開待決清單，這樣能繼續選事嗎？
 
 ## 通訊官問題
 
@@ -56,20 +72,26 @@
 
 問題：從清單開通訊官問題後，是否清楚現在訊息送給通訊官？
 
+## 未分派審查，已預填詢問
+
+[HTML](index.html?state=review-ask) · [桌面](1440-review-ask.png) · [手機](360-review-ask.png)
+
+問題：從未分派審查開到預填詢問後，你能直接送給通訊官嗎？
+
+## 審查詢問已送出
+
+[HTML](index.html?state=review-sent) · [桌面](1440-review-sent.png) · [手機](360-review-sent.png)
+
+問題：你能看出這只送出了指派詢問，並沒有完成審查或記錄決定嗎？
+
 ## 操作方式與驗證範圍
 
 從清單可實際走：開件 → 選結果 → 確認；要求修改／暫緩則是開件 → 選結果 → 點理由欄 → 輸入 → 確認。讀完整簡報沿用 Read full briefing，另加一次展開；普通訊息是開件 → 點訊息欄 → 輸入 → 送出。返回及換件仍經清單，沒有下一件。
 
-送出、轉送、記錄頁是三個固定示意，不會自動轉換或宣稱真實代理已處理。確認在同頁切到已送出；此後各頁由上面的審閱連結查看。送訊息只會在目前頁顯示虛構訊息，不會產生決定結果。
+未分派審查從清單開啟即預填詢問，再按送出，共兩步，不需要另外輸入。
 
-[設計假設](ASSUMPTIONS.md) 列明資料、標籤、返回位置、通訊官路徑與草稿限制。已記錄原簡報回讀仍是既有缺口，這裡沒有加入歷史、保存或最新簡報替代入口。
+送出、轉送、記錄頁是三個固定示意，不會自動轉換或宣稱真實代理已處理。確認在同頁切到已送出；已送出及已轉送時回清單仍保留該閘門，重開原列可看對應進度；已記錄後才離開待決清單。各個進度的固定示意也可由上面的連結查看。送訊息只會在目前頁顯示虛構訊息，不會產生決定結果。
 
-## 重製圖片
+[設計假設](ASSUMPTIONS.md) 列明資料、標籤、返回位置、通訊官路徑。草稿只在目前頁保留是原型限制，不是新的產品規則。已記錄原簡報回讀仍是既有缺口，這裡沒有加入歷史、保存或最新簡報替代入口。
 
-需求：Node.js 22 或更新版本，以及可執行 headless 的 Google Chrome。無 npm 套件、無網路、無本機伺服器，也不需要 Paseo。macOS 預設 Chrome 路徑是 `/Applications/Google Chrome.app/Contents/MacOS/Google Chrome`；其他安裝位置作為第一個參數傳入。
-
-```sh
-node /absolute/path/to/mockups/capture.mjs /absolute/path/to/chrome
-```
-
-程式只開本目錄的 `index.html`，使用 Chrome DevTools Protocol（瀏覽器控制介面）的 pipe。每個尺寸使用新臨時 profile，完成後關閉瀏覽器並移除；逐張輸出 PNG 與 [capture-evidence.json](capture-evidence.json)。它會走兩個尺寸的離線操作，量測全區寬度、按鈕尺寸、畫面溢出及 Confirm 停用／啟用。保留 capture.mjs 供設計總監重製；這份靜態設計稿被正式實作取代時，一起退役。
+擷取方式與技術證據見 [EVIDENCE.md](EVIDENCE.md)。

diff --git a/r8-mockups-one-item-whole-area.md b/r8-mockups-one-item-whole-area.md
@@ -84,3 +84,20 @@ Chrome 在一般 sandbox 未回應；允許本機 headless 擷取後成功。只
 ### FO findings before the gate
 
 - Design director pass 1 (codex/gpt-6-astra:xhigh, 2026-10-28) on the mockups: NOT SATISFIED. Passed: whole-area layout; desktop decision controls the same 32 px height as send, phone ≥ 44×44; no next-item control or history view; Confirm, required reasons and separate messaging kept; assumptions accepted except "back to list". Blocks: back-to-list removes a gate that is only sent or relayed (only a recorded one leaves the list; sent and relayed must reopen to show progress); the unassigned-review path (open, prefilled ask → send, 2 steps) is missing. Annoys: REVIEW.md asks nine questions — keep them as reference and ask the Captain for one direction decision on the first page; move capture instructions to EVIDENCE.md; cut "Your decision has been recorded" (repeats the heading); say 已記錄後 not 錄製後; the per-page draft limit is a prototype limit, not a new product rule. FO authorizes one revision.
+
+## Stage Report: implementation (cycle 2)
+
+- DONE: Back to list: a gate that is only sent or relayed stays in the list and reopens to its progress; only a recorded gate leaves the pending list; add the unassigned-review state with a fictional review of an existing kind, open → prefilled ask → send (2 steps), at 1440 and 360
+  已送出／已轉送分別回到 list-sent／list-relayed，原閘門列仍在且重開到對應進度；只有 recorded 回清單移除閘門。虛構 example/demo-project #17 審查以開列即預填、再送出兩步完成；兩尺寸各有詢問前後 PNG。capture.mjs 實際點擊查核，若過早移出或遺失預填／收件人即失敗。
+- DONE: REVIEW.md: one direction question for the Captain on the first page ("go on this direction, or what to change"), the per-state questions kept below as reference; capture instructions moved to EVIDENCE.md; cut the on-screen "Your decision has been recorded"; 錄製後 → 已記錄後; state the per-page draft limit as a prototype limit; re-capture changed states one at a time; a short "## Stage Report: implementation (cycle 2)" section
+  index.html 與 REVIEW.md 首頁只問一個方向問題；各狀態細問留作參考，擷取說明移到 EVIDENCE.md；刪除已記錄重複句，修正用字並標明草稿是原型限制。逐張重擷取共 26 PNG、兩個尺寸離線路徑均 PASS；HTML 雜湊、圖片尺寸及 REVIEW 連結已核對。
+
+### Findings
+
+具體證據與命令見 mockups/EVIDENCE.md 及 capture-evidence.json。既有全區尺寸、桌面決定與 Send 同高 32px、手機至少 44×44、Confirm／必填理由／獨立傳訊的檢查均重跑通過；手機預填全文無須在欄位內捲動。
+套件檢查重跑：design_surfaces.py 退出 1，SKIPPED 已知缺口 2；number_guards.py 退出 0、PASS: no findings，無 ADR／migration，R4 缺口 3 路徑 SKIPPED；comment_ratio.py 退出 0，0 code／0 comment lines，0.0%；doc_impact.py 退出 0，0 documents。RoboRev 未跑：無產品程式變更及已知缺口 5。
+產品 base/candidate 均 b5381b18834ead9047778e96b27199ae0b3bd8e8。只修改本任務 mockups 與追加此報告；一般產品 worktree 與現行安裝不變，沒有 PR、真實傳訊或記錄。瀏覽器與新臨時 profile 已關閉／移除；無 localhost 服務。
+
+### Summary
+
+完成設計總監第一次審閱所列兩項阻擋與閱讀負擔修訂，保留單件全區方向與原語意。這是靜態原型的第二輪交付，不是設計接受；由 FO 安排複審及 Captain 的 go。

diff --git a/r8-mockups-one-item-whole-area/mockups/ASSUMPTIONS.md b/r8-mockups-one-item-whole-area/mockups/ASSUMPTIONS.md
@@ -7,11 +7,13 @@
 - 回清單：固定在 Bridge 內頁頂端左側，文字為「← Queue」。確認後留在原件，仍從相同位置返回；不自動換件。
 - 通訊官：開件時不常駐另一個通訊官面板。先回清單，再開通訊官問題；訊息欄直接對通訊官傳訊。沒有從單件直接跳通訊官的新捷徑。
 - 單件全區：桌面保留 Paseo 宿主側欄，剩餘 Bridge 區域全寬給同件的簡報、對話與決定；手機使用宿主標頭以下區域。不保留清單側欄或另一個對話。
-- 簡報：開件顯示問題及摘要，Read full briefing 展開同件的虛構原文，不加一次必點操作。錄製後頁面不提供原簡報回讀入口；這是已知缺口，不以最新簡報補上。
-- 對話：明示收件人並保留「includes other tasks」範圍標籤；普通訊息與決定理由維持兩個獨立欄位。草稿僅在目前開啟的示意頁記憶體中保留，不宣稱跨頁或跨重載保存。
+- 簡報：開件顯示問題及摘要，Read full briefing 展開同件的虛構原文，不加一次必點操作。已記錄後頁面不提供原簡報回讀入口；這是已知缺口，不以最新簡報補上。
+- 對話：明示收件人並保留「includes other tasks」範圍標籤；普通訊息與決定理由維持兩個獨立欄位。原型限制：草稿僅在目前開啟的示意頁記憶體中保留，不宣稱跨頁或跨重載保存；這不是新的產品規則，產品既有草稿保障不變。
 - 決定：選結果只開啟理由與 Confirm／Cancel；要求修改及暫緩必填，准可空白。空白必填理由使 Confirm disabled，沒有新增驗證步驟。送出、轉送、記錄分開示意，不用計時器假裝真實進度。
 - 尺寸：桌面決定按鈕和訊息送出按鈕同高 32px；手機兩者均至少 44×44px。這是待審的視覺比例，不是對真機鍵盤的驗證。
 - 呈現：index.html 是審閱入口，狀態以網址查詢參數固定；每個狀態都有直接 HTML 連結及兩個尺寸的 PNG。狀態切換是離線示意，不連線、不傳訊、不記錄真實決定。
-- 返回清單：示意成功後已處理的閘門不再列於待決清單，其餘相同來源的虛構問題仍在；不是新增歷史頁。
+- 返回清單：已送出或已轉送的閘門仍在待決清單，點原列重開進度；只有已記錄的閘門離開待決清單。其餘來源仍在，沒有歷史頁。此段依設計總監第一次審閱修正原假設。
+
+- 未分派審查：以現有 review 種類的虛構 example/demo-project #17 示意。清單開啟即進通訊官對話，預填既有格式的詢問，再按送出，共兩步；不是先開審查詳情再額外按「詢問」。example.invalid 僅是詢問文字中的虛構網址，不載入。
 
 依據：[已選模型](../../r8-simplest-way-to-decide/design/INTERACTION-MODELS.md)、[原始查核](../../r8-simplest-way-to-decide/design/EVIDENCE.md)、[第 7／8 輪與 qnow 設計先行經驗](../../_l3-dogfood/rounds.md)。
